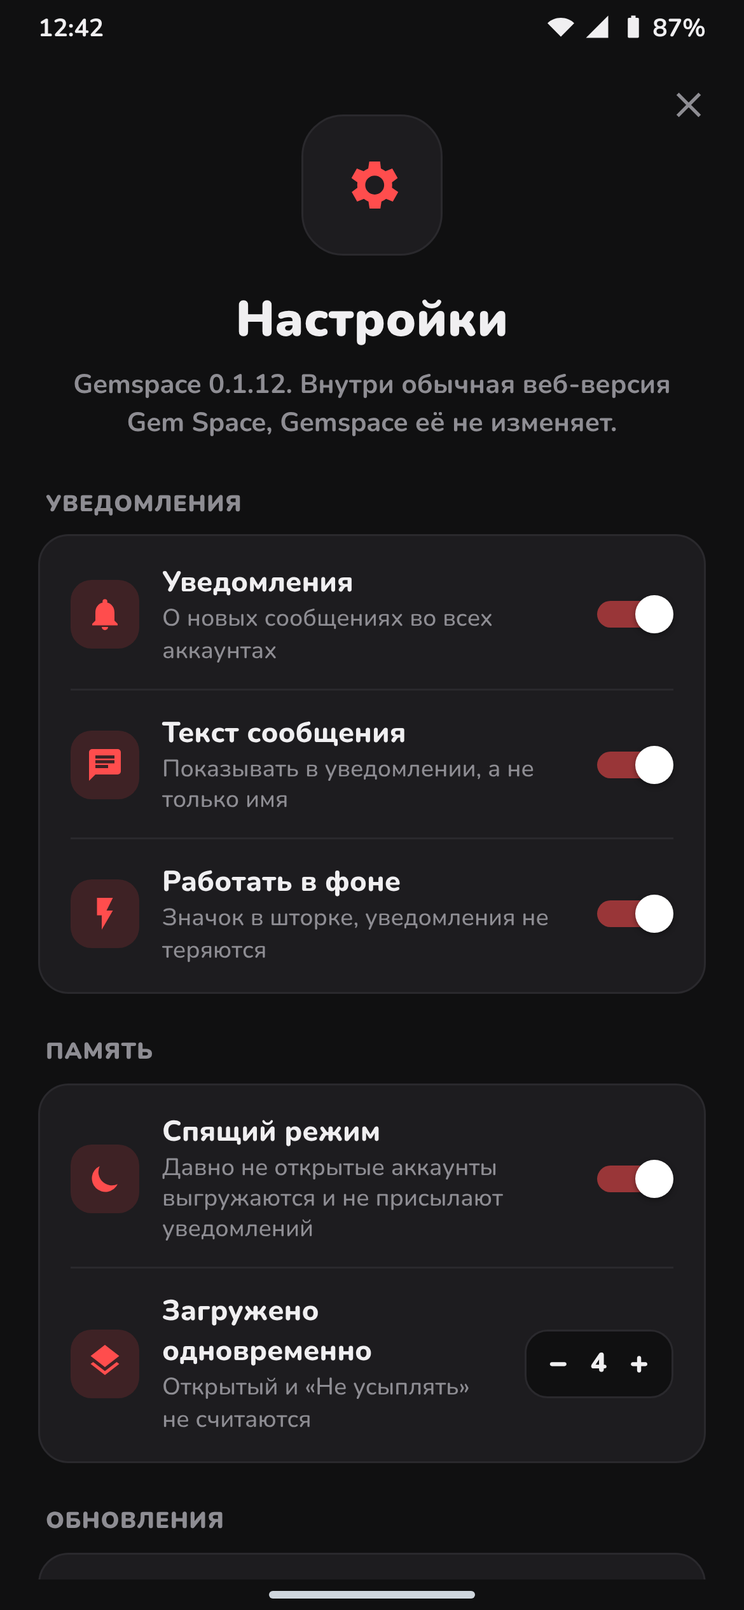
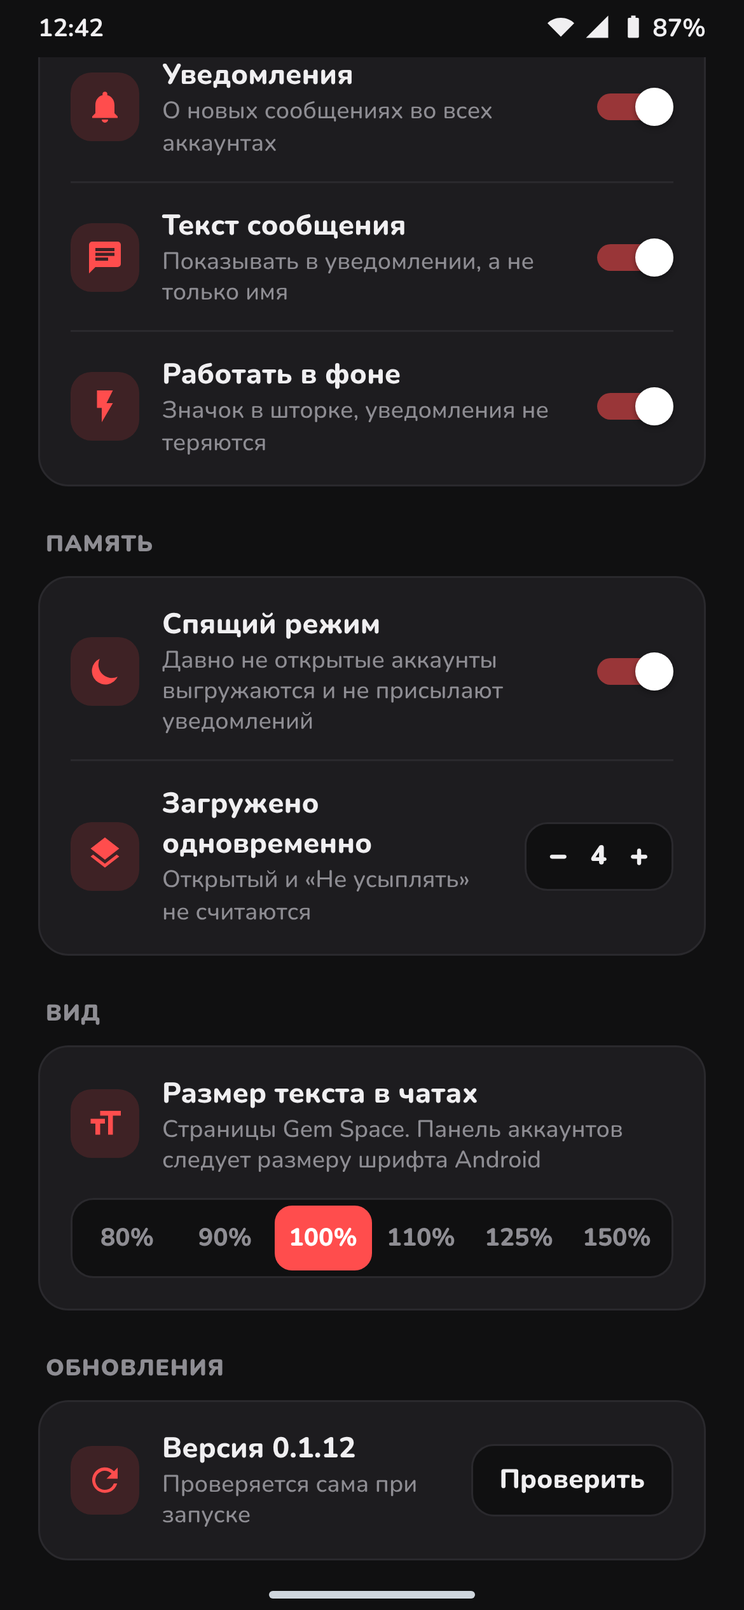
Interface size setting
Windows: 80-150% zoom for the rail and every account page; the rail widens with it.
Android: text size of the Gem Space pages (WebView textZoom). Both in Settings, as a
segmented control with a sliding pill.

Claude-Session: https://claude.ai/code/session_01CRM8nFGG7VZVC9La9kUpL5

diff --git a/docs/demo/phone.html b/docs/demo/phone.html
@@ -53,7 +53,7 @@ iframe{border:0;width:100%;height:calc(100% - 102px - 16px);display:block;backgr
 .n .i svg{width:18px;height:18px;fill:#fff}
 .n small{color:#9aa7b4;font-size:12px;font-weight:600}.n b{display:block;font-size:15px;font-weight:800;margin:1px 0}.n p{margin:0;color:#d3dae1;font-size:14px}
 .n.first{border-radius:22px 22px 6px 6px}.n.mid{border-radius:6px}.n.last{border-radius:6px 6px 22px 22px}
-.sheet{position:fixed;left:0;right:0;top:30px;bottom:16px;background:var(--page);display:none;flex-direction:column;padding:8px 20px 0;overflow:hidden}
+.sheet{position:fixed;left:0;right:0;top:30px;bottom:16px;background:var(--page);display:none;flex-direction:column;padding:8px 20px 0;overflow:auto;scrollbar-width:none}
 .sheet .x{position:absolute;right:18px;top:14px;width:22px;height:22px;fill:var(--muted)}
 .hero{display:flex;flex-direction:column;align-items:center;text-align:center;padding:34px 0 12px}
 .hava{width:72px;height:72px;border-radius:22px;display:grid;place-items:center;color:#fff;font-weight:900;font-size:26px}
@@ -73,6 +73,7 @@ iframe{border:0;width:100%;height:calc(100% - 102px - 16px);display:block;backgr
 .sws .sel{border:3px solid var(--fg)}.sws .sel svg{width:20px;height:20px;fill:#fff}
 .pbtn{background:var(--acc);color:#fff;text-align:center;font-weight:900;font-size:16px;border-radius:16px;padding:16px;margin-top:10px;box-shadow:0 6px 16px rgba(0,0,0,.35)}
 .gbtn{text-align:center;color:var(--muted);font-weight:700;font-size:15px;padding:14px}
+.seg{display:flex;background:var(--page);border:1px solid var(--line);border-radius:12px;padding:3px;margin-bottom:14px}.seg span{flex:1;text-align:center;padding:8px 0;font-weight:800;font-size:13px;color:var(--muted);border-radius:9px}.seg span.on{background:var(--acc);color:#fff}
 </style></head><body>
 <div class="status"><span>12:42</span><span><svg viewBox="0 0 24 24"><path d="M12 4C7.3 4 3.1 5.8 0 8.8L12 21 24 8.8C20.9 5.8 16.7 4 12 4z"/></svg><svg viewBox="0 0 24 24"><path d="M2 22h20V2z"/></svg><svg viewBox="0 0 24 24"><path d="M16 4h-2V2h-4v2H8a1 1 0 0 0-1 1v16a1 1 0 0 0 1 1h8a1 1 0 0 0 1-1V5a1 1 0 0 0-1-1z"/></svg> 87%</span></div>
 <div class="bar"><div class="tile"><div class="ic feed"><svg viewBox="0 0 24 24"><path d="M19 3H5a2 2 0 0 0-2 2v14a2 2 0 0 0 2 2h14a2 2 0 0 0 2-2V5a2 2 0 0 0-2-2zm0 12h-4a3 3 0 0 1-6 0H5V5h14z"/></svg></div><div class="lbl">Лента</div><div class="badge">8</div></div><div class="strip" id="strip"></div><div class="tile"><div class="ic">⚙</div><div class="lbl">Настройки</div></div></div>
@@ -83,7 +84,7 @@ iframe{border:0;width:100%;height:calc(100% - 102px - 16px);display:block;backgr
 <div class="sheet" id="setsheet"><svg class="x" viewBox="0 0 24 24"><path d="M19 6.4 17.6 5 12 10.6 6.4 5 5 6.4 10.6 12 5 17.6 6.4 19 12 13.4 17.6 19 19 17.6 13.4 12z"/></svg><div class="hero" style="padding-top:22px"><div class="hava" style="background:var(--card);border:1px solid var(--line)"><svg viewBox="0 0 24 24"><path d="M19.4 13a7.8 7.8 0 0 0 0-2l2.1-1.6-2-3.5-2.5 1a7.3 7.3 0 0 0-1.7-1L15 3.3h-4l-.4 2.6a7.3 7.3 0 0 0-1.7 1l-2.5-1-2 3.5L6.6 11a7.8 7.8 0 0 0 0 2l-2.1 1.6 2 3.5 2.5-1a7.3 7.3 0 0 0 1.7 1l.4 2.6h4l.4-2.6a7.3 7.3 0 0 0 1.7-1l2.5 1 2-3.5zM13 15.5a3.5 3.5 0 1 1 0-7 3.5 3.5 0 0 1 0 7z"/></svg></div><h2>Настройки</h2><p>Gemspace 0.1.12. Внутри обычная веб-версия Gem Space, Gemspace её не изменяет.</p></div>
 <div class="slbl">Уведомления</div><div class="scard"><div class="srow"><span class="si"><svg viewBox="0 0 24 24"><path d="M12 22a2 2 0 0 0 2-2h-4a2 2 0 0 0 2 2zm6-6V11c0-3.1-1.6-5.6-4.5-6.3V4a1.5 1.5 0 0 0-3 0v.7C7.6 5.4 6 7.9 6 11v5l-2 2v1h16v-1z"/></svg></span><div class="st"><b>Уведомления</b><small>О новых сообщениях во всех аккаунтах</small></div><span class="sw"></span></div><div class="srow"><span class="si"><svg viewBox="0 0 24 24"><path d="M20 2H4a2 2 0 0 0-2 2v18l4-4h14a2 2 0 0 0 2-2V4a2 2 0 0 0-2-2zM6 9h12v2H6zm8 5H6v-2h8zm4-6H6V6h12z"/></svg></span><div class="st"><b>Текст сообщения</b><small>Показывать в уведомлении, а не только имя</small></div><span class="sw"></span></div><div class="srow"><span class="si"><svg viewBox="0 0 24 24"><path d="M7 2v11h3v9l7-12h-4l4-8z"/></svg></span><div class="st"><b>Работать в фоне</b><small>Значок в шторке, уведомления не теряются</small></div><span class="sw"></span></div></div>
 <div class="slbl">Память</div><div class="scard"><div class="srow"><span class="si"><svg viewBox="0 0 24 24"><path d="M20 15.3A8.5 8.5 0 0 1 8.7 4a8.5 8.5 0 1 0 11.3 11.3z"/></svg></span><div class="st"><b>Спящий режим</b><small>Давно не открытые аккаунты выгружаются и не присылают уведомлений</small></div><span class="sw"></span></div><div class="srow"><span class="si"><svg viewBox="0 0 24 24"><path d="M12 16.5 4.6 10.8 3 12l9 7 9-7-1.6-1.2zM12 14l9-7-9-7-9 7z"/></svg></span><div class="st"><b>Загружено одновременно</b><small>Открытый и «Не усыплять» не считаются</small></div><span class="stp"><span>−</span>4<span>+</span></span></div></div>
-<div class="slbl">Обновления</div><div class="scard"><div class="srow"><span class="si"><svg viewBox="0 0 24 24"><path d="M17.7 6.3A8 8 0 1 0 19.7 14h-2.1a6 6 0 1 1-1.4-6.2L13 11h7V4z"/></svg></span><div class="st"><b>Версия 0.1.12</b><small>Проверяется сама при запуске</small></div><span class="sbtn">Проверить</span></div></div></div>
+<div class="slbl">Вид</div><div class="scard"><div class="srow" style="border:0"><span class="si"><svg viewBox="0 0 24 24"><path d="M9 4v3h5v12h3V7h5V4zM3 12h3v7h3v-7h3V9H3z"/></svg></span><div class="st"><b>Размер текста в чатах</b><small>Страницы Gem Space. Панель аккаунтов следует размеру шрифта Android</small></div></div><div class="seg"><span>80%</span><span>90%</span><span class=on>100%</span><span>110%</span><span>125%</span><span>150%</span></div></div><div class="slbl">Обновления</div><div class="scard"><div class="srow"><span class="si"><svg viewBox="0 0 24 24"><path d="M17.7 6.3A8 8 0 1 0 19.7 14h-2.1a6 6 0 1 1-1.4-6.2L13 11h7V4z"/></svg></span><div class="st"><b>Версия 0.1.12</b><small>Проверяется сама при запуске</small></div><span class="sbtn">Проверить</span></div></div></div>
 <div class="scrim" id="scrim"><div class="dlg"><h3>Новый аккаунт</h3><div class="in">Розница</div>
 <div class="cs" id="cs"></div><div class="btns"><span>Отмена</span><span>Добавить и войти</span></div></div></div>
 <div class="scrim" id="fscrim"><div class="dlg feed"><h3>Лента</h3><div id="frows"></div>
@@ -117,7 +118,7 @@ const q=location.search;
 const CK='<svg viewBox="0 0 24 24"><path d="M9 16.2 4.8 12l-1.4 1.4L9 19 21 7l-1.4-1.4z"/></svg>';
 document.getElementById('sws').innerHTML=COLORS.map(c=>`<span${c==='#ffa726'?' class="sel"':''} style="background:${c}">${c==='#ffa726'?CK:''}</span>`).join('');
 if(q.includes('dialog'))document.getElementById('addsheet').style.display='flex';
-if(q.includes('settings'))document.getElementById('setsheet').style.display='flex';
+if(q.includes('settings')){const ss=document.getElementById('setsheet');ss.style.display='flex';if(q.includes('scroll'))ss.scrollTop=330;}
 if(q.includes('menu')){document.getElementById('pop').style.display='block';document.querySelectorAll('.tile')[2].style.transform='scale(.92)';}
 if(q.includes('feed')){const F=[['Поддержка','#26a69a','Денис Карпов','Добрый вечер! Когда будет возврат по заказу 2231?','12:42'],['Продажи','#3aa0ff','Ирина Морозова','Счёт получила, оплачу сегодня 👍','12:41'],['Опт','#7e57c2','Опт: заявки','Марк: Нужно 40 коробок к пятнице, успеете?','12:40'],['Поддержка','#26a69a','Светлана','Не приходит код подтверждения, что делать?','12:36'],['Магазин','#ffa726','Ольга','Спасибо, всё пришло! Оставлю отзыв','12:33'],['Склад','#66bb6a','Склад, смена 2','Паллеты на утро собраны, ждём машину','12:28']];
 document.getElementById('frows').innerHTML=F.map(([a,c,n,x,t])=>`<div class="fr"><div class="a" style="background:${c}">${a[0]}</div><div class="m"><div class="t"><b>${a}</b><span>${t}</span></div><div class="fn">${n}</div><div class="x">${x}</div></div></div>`).join('');

diff --git a/android/app/src/main/java/app/gemspace/allinone/MainActivity.kt b/android/app/src/main/java/app/gemspace/allinone/MainActivity.kt
@@ -735,6 +735,12 @@ class MainActivity : AppCompatActivity() {
             for (i in 0 until stepper.childCount) stepper.getChildAt(i).isEnabled = sleepOn.isChecked }
         sleepOn.setOnCheckedChangeListener { _, _ -> syncMax() }
         syncMax()
+        sheet.section("Вид")
+        val c4 = sheet.card()
+        var scale = s.uiScale
+        val seg = sheet.segmented(listOf(80, 90, 100, 110, 125, 150), scale) { scale = it }
+        sheet.row(c4, R.drawable.ic_size, "Размер текста в чатах", "Страницы Gem Space. Панель аккаунтов следует размеру шрифта Android", View(this))
+        c4.addView(seg, LinearLayout.LayoutParams(ViewGroup.LayoutParams.MATCH_PARENT, dp(40)).apply { bottomMargin = dp(14) })
         sheet.section("Обновления")
         val c3 = sheet.card()
         val check = sheet.smallButton("Проверить") { Updater.checkNow(this) }
@@ -745,6 +751,10 @@ class MainActivity : AppCompatActivity() {
             s.keepAlive = keep.isChecked
             s.sleepEnabled = sleepOn.isChecked
             s.maxAwake = max
+            if (s.uiScale != scale) {
+                s.uiScale = scale
+                views.values.forEach { it.settings.textZoom = scale }
+            }
             store.save()
             enforceSleep()
             updateKeepAlive()
@@ -877,6 +887,34 @@ class MainActivity : AppCompatActivity() {
             }, LinearLayout.LayoutParams(ViewGroup.LayoutParams.MATCH_PARENT, dp(48)).apply { topMargin = dp(4) })
         }
 
+        /** A row of choices with a sliding accent pill under the chosen one. */
+        fun segmented(values: List<Int>, current: Int, onPick: (Int) -> Unit): FrameLayout {
+            val frame = FrameLayout(this@MainActivity).apply { background = field(false); setPadding(dp(3), dp(3), dp(3), dp(3)) }
+            val pill = View(this@MainActivity).apply {
+                background = GradientDrawable().apply { cornerRadius = dp(9).toFloat(); setColor(accent) }
+            }
+            frame.addView(pill, FrameLayout.LayoutParams(0, ViewGroup.LayoutParams.MATCH_PARENT))
+            val rowL = LinearLayout(this@MainActivity).apply { orientation = LinearLayout.HORIZONTAL }
+            frame.addView(rowL, FrameLayout.LayoutParams(ViewGroup.LayoutParams.MATCH_PARENT, ViewGroup.LayoutParams.MATCH_PARENT))
+            var chosen = values.indexOf(current).coerceAtLeast(0)
+            fun paint(animate: Boolean) {
+                val cell = rowL.getChildAt(chosen) ?: return
+                if (pill.layoutParams.width != cell.width) pill.layoutParams = pill.layoutParams.apply { width = cell.width }
+                if (animate) pill.animate().translationX(cell.left.toFloat()).setDuration(220)
+                    .setInterpolator(android.view.animation.DecelerateInterpolator(2f)).start()
+                else pill.translationX = cell.left.toFloat()
+                for (i in 0 until rowL.childCount) (rowL.getChildAt(i) as TextView).setTextColor(if (i == chosen) Color.WHITE else muted)
+            }
+            values.forEachIndexed { i, v ->
+                rowL.addView(TextView(this@MainActivity).apply {
+                    text = "$v%"; textSize = 13f; typeface = fontHeavy; gravity = Gravity.CENTER
+                    setOnClickListener { chosen = i; paint(true); onPick(v) }
+                }, LinearLayout.LayoutParams(0, ViewGroup.LayoutParams.MATCH_PARENT, 1f))
+            }
+            rowL.addOnLayoutChangeListener { _, l, _, r, _, oldL, _, oldR, _ -> if (r - l != oldR - oldL) rowL.post { paint(false) } }
+            return frame
+        }
+
         fun pop(v: View) {
             v.scaleX = 0.8f; v.scaleY = 0.8f
             v.animate().scaleX(1f).scaleY(1f).setDuration(260).setInterpolator(OvershootInterpolator(3f)).start()
@@ -931,6 +969,7 @@ class MainActivity : AppCompatActivity() {
             mediaPlaybackRequiresUserGesture = false
             setSupportMultipleWindows(false)
             mixedContentMode = WebSettings.MIXED_CONTENT_NEVER_ALLOW
+            textZoom = store.settings.uiScale
             // look like mobile Chrome: some sites refuse the WebView marker
             userAgentString = userAgentString.replace("; wv", "").replace(Regex("Version/\\S+ "), "")
         }

diff --git a/desktop/ui/app.js b/desktop/ui/app.js
@@ -189,6 +189,8 @@ const LAYERS_PATH = 'M12 16.5 4.6 10.8 3 12l9 7 9-7-1.6-1.2zM12 14l9-7-9-7-9 7z'
 const TRAY_PATH = 'M19 3H5a2 2 0 0 0-2 2v14a2 2 0 0 0 2 2h14a2 2 0 0 0 2-2V5a2 2 0 0 0-2-2zm0 16H5v-3h3.6a3.5 3.5 0 0 0 6.8 0H19zm0-5h-5a2 2 0 0 1-4 0H5V5h14z';
 const REFRESH_PATH = 'M17.7 6.3A8 8 0 1 0 19.7 14h-2.1a6 6 0 1 1-1.4-6.2L13 11h7V4z';
 const KEYS_PATH = 'M20 5H4a2 2 0 0 0-2 2v10a2 2 0 0 0 2 2h16a2 2 0 0 0 2-2V7a2 2 0 0 0-2-2zm-9 3h2v2h-2zm0 3h2v2h-2zM8 8h2v2H8zm0 3h2v2H8zm-1 2H5v-2h2zm0-3H5V8h2zm9 7H8v-2h8zm0-4h-2v-2h2zm0-3h-2V8h2zm3 3h-2v-2h2zm0-3h-2V8h2z';
+const SIZE_PATH = 'M9 4v3h5v12h3V7h5V4zm-6 8h3v7h3v-7h3V9H3z';
+const SCALES = [80, 90, 100, 110, 125, 150];
 const GEAR_PATH = 'M19.4 13a7.8 7.8 0 0 0 0-2l2.1-1.6-2-3.5-2.5 1a7.3 7.3 0 0 0-1.7-1L15 3.3h-4l-.4 2.6a7.3 7.3 0 0 0-1.7 1l-2.5-1-2 3.5L6.6 11a7.8 7.8 0 0 0 0 2l-2.1 1.6 2 3.5 2.5-1a7.3 7.3 0 0 0 1.7 1l.4 2.6h4l.4-2.6a7.3 7.3 0 0 0 1.7-1l2.5 1 2-3.5zM13 15.5a3.5 3.5 0 1 1 0-7 3.5 3.5 0 0 1 0 7z';
 const icon = (d) => `<svg viewBox="0 0 24 24" aria-hidden="true"><path d="${d}"/></svg>`;
 
@@ -365,6 +367,8 @@ async function openOverlay(kind, a) {
       <div class="set-label">Окно</div>
       <div class="af-card set-card">
         ${row(TRAY_PATH, 's-tray', s.close_to_tray, 'Сворачивать в трей', 'Крестик прячет окно, уведомления продолжают приходить')}
+        <div class="set-row set-col"><div class="set-head"><span class="af-ic">${icon(SIZE_PATH)}</span><span class="af-txt"><b>Размер интерфейса</b><small>Панель аккаунтов и страницы Gem Space</small></span></div>
+          <div class="seg" id="s-scale">${SCALES.map((v) => `<button type="button" data-v="${v}" class="${v === (s.ui_scale || 100) ? 'on' : ''}">${v}%</button>`).join('')}<span class="seg-pill"></span></div></div>
       </div>
       <div class="set-label">Обновления</div>
       <div class="af-card set-card">
@@ -385,6 +389,15 @@ async function openOverlay(kind, a) {
       <button class="btn primary big wide" id="f-ok">Сохранить</button>
       <button class="btn ghost wide" id="f-cancel">Отмена</button>
     </div>`;
+    const seg = $('#s-scale');
+    const movePill = () => {
+      const on = seg.querySelector('.on'); const pill = seg.querySelector('.seg-pill');
+      if (on) { pill.style.width = on.offsetWidth + 'px'; pill.style.transform = `translateX(${on.offsetLeft}px)`; }
+    };
+    seg.querySelectorAll('button').forEach((btn) => {
+      btn.onclick = () => { seg.querySelectorAll('button').forEach((x) => x.classList.remove('on')); btn.classList.add('on'); movePill(); };
+    });
+    requestAnimationFrame(movePill);
     const max = $('#s-max');
     const syncMax = () => $('#s-max-row').classList.toggle('off', !$('#s-sleep').checked);
     $('#s-sleep').addEventListener('change', syncMax); syncMax();
@@ -401,6 +414,7 @@ async function openOverlay(kind, a) {
         sleep_enabled: $('#s-sleep').checked,
         max_awake: Math.max(1, Math.min(60, parseInt($('#s-max').value, 10) || 8)),
         close_to_tray: $('#s-tray').checked,
+        ui_scale: Number(($('#s-scale .on') || {}).dataset?.v) || 100,
       };
       await invoke('set_settings', { settings });
       closeOverlay();

diff --git a/desktop/ui/style.css b/desktop/ui/style.css
@@ -271,7 +271,6 @@ kbd { font: 700 12px/1 var(--font); padding: 2px 6px; border-radius: 5px; border
 .set-row input:checked + .switch::after { transform: translateX(18px); }
 .set-row input:focus-visible + .switch { outline: 2px solid var(--accent); outline-offset: 2px; }
 .set-row.off { opacity: .45; pointer-events: none; }
-div.set-row { cursor: default; }
 .stepper { display: flex; align-items: center; background: var(--bg); border: 1px solid var(--line); border-radius: 12px; flex: none; }
 .stepper button { width: 34px; height: 34px; border: 0; background: none; color: var(--fg); font: 800 18px/1 var(--font); cursor: pointer; border-radius: 10px; transition: background var(--fast) ease; }
 .stepper button:hover { background: var(--card); }
@@ -286,6 +285,13 @@ div.set-row { cursor: default; }
 .keys { display: flex; align-items: center; gap: 4px; flex: none; }
 .keys i { font-style: normal; color: var(--muted); }
 .keys kbd { padding: 4px 8px; font-size: 12.5px; }
+div.set-row { cursor: default; }
+.set-row.set-col { flex-direction: column; align-items: stretch; }
+.set-head { display: flex; align-items: center; gap: 12px; }
+.seg { position: relative; display: flex; background: var(--bg); border: 1px solid var(--line); border-radius: 12px; padding: 3px; }
+.seg button { flex: 1; position: relative; z-index: 1; border: 0; background: none; color: var(--muted); font: 800 13px var(--font); padding: 8px 0; cursor: pointer; transition: color var(--fast) ease; }
+.seg button.on { color: #fff; }
+.seg-pill { position: absolute; left: 0; top: 3px; bottom: 3px; border-radius: 9px; background: var(--accent); transition: transform var(--mid) var(--ease), width var(--mid) var(--ease); }
 @keyframes spin-in { from { opacity: 0; transform: rotate(-120deg) scale(.6); } }
 @keyframes logo-in { from { opacity: 0; transform: scale(.6) rotate(-8deg); } 60% { transform: scale(1.06); } }
 .empty { text-align: center; padding: 56px 0 10px; display: flex; flex-direction: column; align-items: center; gap: 4px; }

diff --git a/docs/make-screens.js b/docs/make-screens.js
@@ -44,7 +44,7 @@ async function shot(browser, key, file, opts, page, before) {
   });
   await shot(b, 'd3', 'desktop-menu', D, 'docs/demo/desktop.html?menu');
   await shot(b, 'd4', 'desktop-notify', D, 'docs/demo/desktop.html?toast');
-  await shot(b, 'd5', 'desktop-settings', D, rail, (p) => p.click('#gear'));
+  await shot(b, 'd5', 'desktop-settings', D, rail, async (p) => { await p.click('#gear'); await p.waitForTimeout(500); await p.evaluate(() => { const o = document.querySelector('#overlay'); o.scrollTop = 260; }); });
   await shot(b, 'd6', 'desktop-feed', D, rail, (p) => p.click('#feed'));
   await shot(b, 'd7', 'desktop-welcome', D, rail + '?empty');
   await shot(b, 'a1', 'android-main', P, 'docs/demo/phone.html');
@@ -52,7 +52,7 @@ async function shot(browser, key, file, opts, page, before) {
   await shot(b, 'a3', 'android-menu', P, 'docs/demo/phone.html?menu');
   await shot(b, 'a5', 'android-feed', P, 'docs/demo/phone.html?feed');
   await shot(b, 'a6', 'android-welcome', P, 'docs/demo/phone.html?empty');
-  await shot(b, 'a7', 'android-settings', P, 'docs/demo/phone.html?settings');
+  await shot(b, 'a7', 'android-settings', P, 'docs/demo/phone.html?settings&scroll');
   await shot(b, 'a4', 'android-notify', P, 'docs/demo/phone.html?shade');
   await b.close();
 })();

diff --git a/android/app/src/main/java/app/gemspace/allinone/Store.kt b/android/app/src/main/java/app/gemspace/allinone/Store.kt
@@ -17,6 +17,8 @@ data class Settings(
     var keepAlive: Boolean = true,
     var sleepEnabled: Boolean = true,
     var maxAwake: Int = 4,
+    /** Gem Space text size in percent (WebView textZoom), 80..150 */
+    var uiScale: Int = 100,
 )
 
 /** Accounts and settings, kept as one JSON string in SharedPreferences. */
@@ -47,6 +49,7 @@ class Store(context: Context) {
                 settings.keepAlive = s.optBoolean("keepAlive", true)
                 settings.sleepEnabled = s.optBoolean("sleepEnabled", true)
                 settings.maxAwake = s.optInt("maxAwake", 4).coerceIn(1, 30)
+                settings.uiScale = s.optInt("uiScale", 100).coerceIn(80, 150)
             }
         } catch (e: Exception) {
             accounts.clear()
@@ -64,6 +67,7 @@ class Store(context: Context) {
             .put("keepAlive", settings.keepAlive)
             .put("sleepEnabled", settings.sleepEnabled)
             .put("maxAwake", settings.maxAwake)
+            .put("uiScale", settings.uiScale)
         val o = JSONObject().put("accounts", arr).put("active", active ?: "").put("settings", s)
         prefs.edit().putString("state", o.toString()).apply()
     }

diff --git a/docs/demo/demo-state.js b/docs/demo/demo-state.js
@@ -12,7 +12,7 @@
       { id: 'a7', name: 'Склад', color: '#66bb6a', proxy: null, pinned: false, unread: 1, attention: false, awake: true },
     ],
     active: 'a1',
-    settings: { sleep_enabled: true, max_awake: 8, notifications: true, notify_preview: true, close_to_tray: true },
+    settings: { sleep_enabled: true, max_awake: 8, notifications: true, notify_preview: true, close_to_tray: true, ui_scale: 100 },
     total_unread: 19,
     feed: (function () {
       var t = Date.now();

diff --git a/desktop/src/lib.rs b/desktop/src/lib.rs
@@ -28,6 +28,28 @@ pub const GEM_URL: &str = "https://web.gemspace.com/";
 const MAIN: &str = "main";
 pub(crate) const RAIL: &str = "rail";
 const RAIL_WIDTH: f64 = 76.0;
+
+/// Interface size as a zoom factor, from the settings (100% = 1.0).
+fn ui_scale(app: &AppHandle) -> f64 {
+    let pct = app.state::<AppState>().store.lock().unwrap().settings.ui_scale.clamp(80, 150);
+    pct as f64 / 100.0
+}
+
+/// The rail grows with the interface size so its tiles keep their proportions.
+fn rail_width(app: &AppHandle) -> f64 {
+    (RAIL_WIDTH * ui_scale(app)).round()
+}
+
+/// Applies the interface size to the rail and every loaded account.
+fn apply_scale(app: &AppHandle) {
+    let z = ui_scale(app);
+    if let Some(window) = main_window(app) {
+        for wv in window.webviews() {
+            let _ = wv.set_zoom(z);
+        }
+    }
+    layout(app);
+}
 const ACC_PREFIX: &str = "acc-";
 
 /// Injected into every account webview before the page's own scripts. It only reroutes the page's
@@ -150,15 +172,16 @@ fn layout(app: &AppHandle) {
     let st = app.state::<AppState>();
     let active = st.store.lock().unwrap().active.clone();
     let overlay = st.live.lock().unwrap().overlay;
-    let content_w = (size.width - RAIL_WIDTH).max(1.0);
+    let rail_w = rail_width(app);
+    let content_w = (size.width - rail_w).max(1.0);
     for wv in window.webviews() {
         let label = wv.label().to_string();
         if label == RAIL {
-            let w = if overlay { size.width } else { RAIL_WIDTH };
+            let w = if overlay { size.width } else { rail_w };
             let _ = wv.set_position(LogicalPosition::new(0.0, 0.0));
             let _ = wv.set_size(LogicalSize::new(w, size.height));
         } else if let Some(id) = id_of(&label) {
-            let _ = wv.set_position(LogicalPosition::new(RAIL_WIDTH, 0.0));
+            let _ = wv.set_position(LogicalPosition::new(rail_w, 0.0));
             let _ = wv.set_size(LogicalSize::new(content_w, size.height));
             if !overlay && active.as_deref() == Some(id) {
                 let _ = wv.show();
@@ -246,12 +269,17 @@ fn create_account_webview(app: &AppHandle, account: &Account) -> tauri::Result<W
         return Err(tauri::Error::WindowNotFound);
     };
     let size = size.to_logical::<f64>(scale);
+    let rail_w = rail_width(app);
     let wv = window.add_child(
         builder,
-        LogicalPosition::new(RAIL_WIDTH, 0.0),
-        LogicalSize::new((size.width - RAIL_WIDTH).max(1.0), size.height),
+        LogicalPosition::new(rail_w, 0.0),
+        LogicalSize::new((size.width - rail_w).max(1.0), size.height),
     )?;
     let _ = wv.hide();
+    let z = ui_scale(app);
+    if (z - 1.0).abs() > f64::EPSILON {
+        let _ = wv.set_zoom(z);
+    }
     Ok(wv)
 }
 
@@ -558,7 +586,16 @@ async fn set_overlay(app: AppHandle, open: bool) {
 
 #[tauri::command]
 async fn set_settings(app: AppHandle, settings: Settings) {
-    app.state::<AppState>().store.lock().unwrap().settings = settings;
+    let rescale = {
+        let st = app.state::<AppState>();
+        let mut store = st.store.lock().unwrap();
+        let rescale = store.settings.ui_scale != settings.ui_scale;
+        store.settings = settings;
+        rescale
+    };
+    if rescale {
+        apply_scale(&app);
+    }
     save(&app);
     enforce_sleep(&app);
     publish(&app);
@@ -673,11 +710,15 @@ pub fn run() {
                 let _ = window.set_icon(icon);
             }
             let size = window.inner_size()?.to_logical::<f64>(window.scale_factor()?);
-            window.add_child(
+            let rail = window.add_child(
                 WebviewBuilder::new(RAIL, WebviewUrl::App("index.html".into())),
                 LogicalPosition::new(0.0, 0.0),
-                LogicalSize::new(RAIL_WIDTH, size.height),
+                LogicalSize::new(rail_width(&handle), size.height),
             )?;
+            let z = ui_scale(&handle);
+            if (z - 1.0).abs() > f64::EPSILON {
+                let _ = rail.set_zoom(z);
+            }
 
             let show = MenuItem::with_id(app, "show", "Открыть Gemspace", true, None::<&str>)?;
             let quit = MenuItem::with_id(app, "quit", "Выйти", true, None::<&str>)?;

diff --git a/desktop/src/store.rs b/desktop/src/store.rs
@@ -32,11 +32,13 @@ pub struct Settings {
     /// show the message text in notifications
     pub notify_preview: bool,
     pub close_to_tray: bool,
+    /// interface size in percent, for the rail and the Gem Space pages (80..=150)
+    pub ui_scale: u32,
 }
 
 impl Default for Settings {
     fn default() -> Self {
-        Self { sleep_enabled: true, max_awake: 8, notifications: true, notify_preview: true, close_to_tray: true }
+        Self { sleep_enabled: true, max_awake: 8, notifications: true, notify_preview: true, close_to_tray: true, ui_scale: 100 }
     }
 }
 
